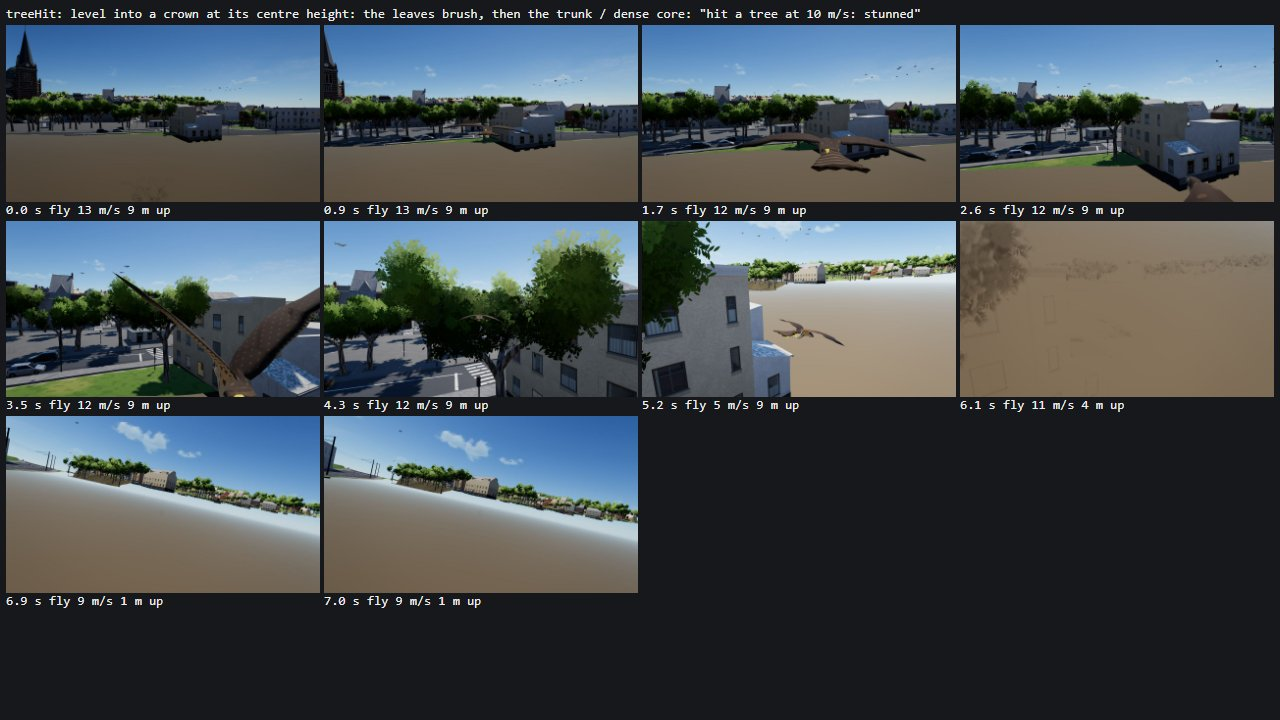
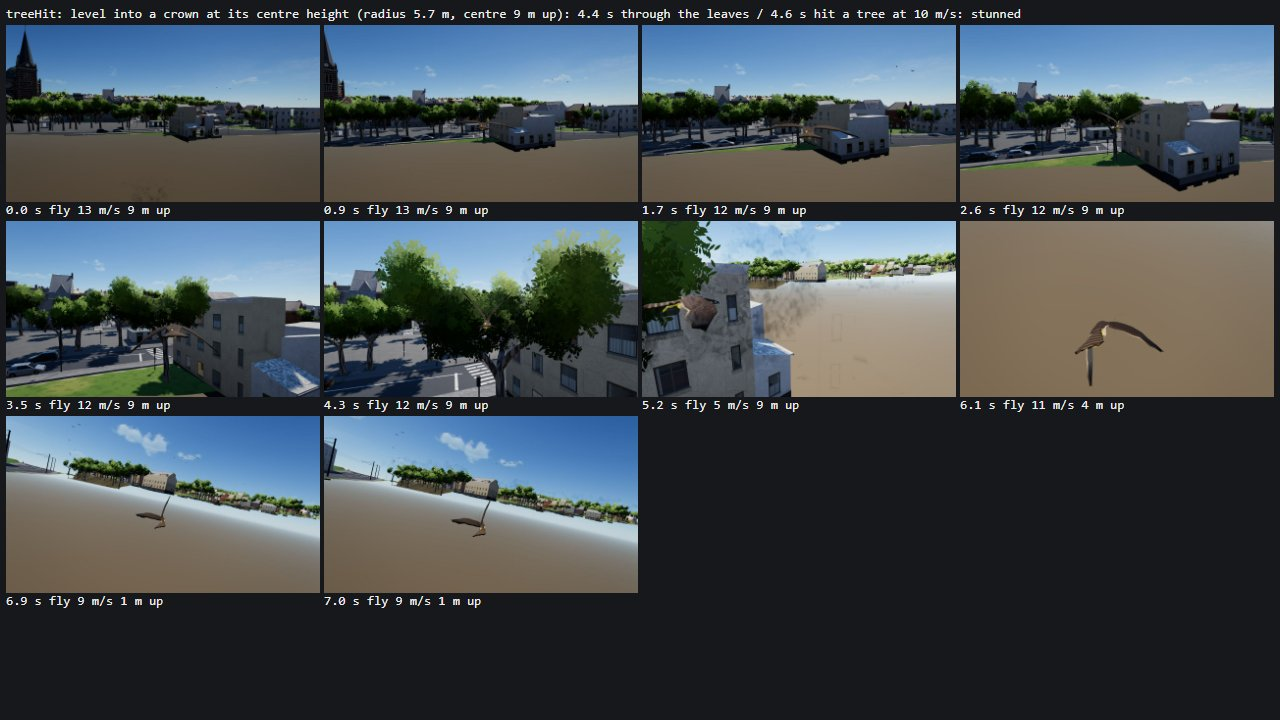
Falcon city round 2: tree crowns as obstacles verified (hit / brush / under / perch sheets), side entry into a ceiling = a wall, camera hard minimum distance, driver: no re-take-off when perched

diff --git a/viewer/falconFlight/flightModel.js b/viewer/falconFlight/flightModel.js
@@ -221,19 +221,26 @@ export class FalconFlight {
     const len = Math.hypot(dx, dy, dz);
     const steps = Math.max(1, Math.ceil(len / 0.4));
     const C = world.column ? world : null;
-    let prevF = C ? C.column(px, pz, py).floor : world.floor(px, pz);
+    let prevF, prevC = Infinity;
+    if (C) { const c = C.column(px, pz, py); prevF = c.floor; prevC = c.ceil; } else prevF = world.floor(px, pz);
     for (let s = 1; s <= steps; s++) {
       const t = s / steps;
       const x = px + dx * t, y = py + dy * t, z = pz + dz * t;
-      let f, ceil = Infinity, hitTree = null;
-      if (C) { const c = C.column(x, z, y); f = c.floor; ceil = c.ceil; hitTree = c.tree; } else f = world.floor(x, z);
-      if (y >= f + R && y <= ceil - R) { prevF = f; continue; }
+      let f, ceil = Infinity, hitTree = null, ceilTree = null;
+      if (C) { const c = C.column(x, z, y); f = c.floor; ceil = c.ceil; hitTree = c.tree; ceilTree = c.ceilTree ?? null; } else f = world.floor(x, z);
+      if (y >= f + R && y <= ceil - R) { prevF = f; prevC = ceil; continue; }
       // contact: which kind?
       const t0 = (s - 1) / steps, x0 = px + dx * t0, z0 = pz + dz * t0, y0 = py + dy * t0;
       let nx, ny, nz, wall = false, under = false;
-      if (y >= f + R) {
-        // a ceiling (an arch, a crown's underside): pushed down under it, normal down
-        nx = 0; ny = -1; nz = 0; under = true;
+      if (y >= f + R && ceil < prevC - 1) {
+        // a ceiling that came down across the path (flying level into the low side of a crown, an arch's spandrel):
+        // the side of a solid, a wall
+        const hl = Math.hypot(dx, dz) || 1;
+        nx = -dx / hl; ny = 0; nz = -dz / hl; wall = true; hitTree = ceilTree;
+        this.pos.x = x0; this.pos.y = y0; this.pos.z = z0;
+      } else if (y >= f + R) {
+        // a ceiling (an arch, a crown's underside) risen into from below: pushed down under it, normal down
+        nx = 0; ny = -1; nz = 0; under = true; hitTree = ceilTree;
         this.pos.x = x; this.pos.z = z; this.pos.y = Math.max(f + R, ceil - R);
       } else
       if (f - prevF > 1.0 && y0 < f + R - 0.05) {

diff --git a/debug/falconCityFlight.js b/debug/falconCityFlight.js
@@ -261,13 +261,13 @@ function scenarios(F) {
         if (!best || score > best.score) best = { r, pts, L, score };
       }
       if (!best) throw new Error("no street");
-      const pts = best.pts, y0 = (x, z) => w.ground(x, z) + 7;
+      const pts = best.pts, y0 = (x, z) => w.ground(x, z) + 8;
       const h0 = Math.atan2(-(pts[1][0] - pts[0][0]), -(pts[1][1] - pts[0][1]));
       fl.start(pts[0][0], pts[0][1], h0, y0(pts[0][0], pts[0][1]), 13, 0);
       let k = 1;
       F.pick = { name: best.r.meta?.name, L: best.L, n: pts.length };
       return { seconds: Math.min(25, best.L / 13), note: `low along ${best.r.meta?.name || "a street"} (7 m up, under the roofs): the chase camera beside the façades`, script: (f) => {
-        while (k < pts.length - 1 && Math.hypot(pts[k][0] - f.pos.x, pts[k][1] - f.pos.z) < 12) k++;
+        while (k < pts.length - 1 && Math.hypot(pts[k][0] - f.pos.x, pts[k][1] - f.pos.z) < 18) k++;
         const [tx, tz] = pts[k];
         const st = steer(f, Math.atan2(-(tx - f.pos.x), -(tz - f.pos.z)), 0, 0.9);
         return { ...st, pitch: clamp((y0(f.pos.x, f.pos.z) - f.pos.y) * 0.15 - f.gamma * 1.5, -1, 1), flap: f.V < 12 ? 1 : 0, fold: 0 };
@@ -309,6 +309,8 @@ export async function run(name, { grabs = 8, seconds = null, cellW = 400, arg } 
   { const g = fl.game; g.messages.length = 0; for (const k in g.score) g.score[k] = 0; g.f.extraMass = 0; fl.bird.drop(); g.trace.length = 0; fl.handover = null; }
   const S = scenarios(F)[name](arg);
   const dur = seconds ?? S.seconds, n = Math.round(dur * 60);
+  // (perched / landed: the script's flap would take off again at once: none then)
+  if (S.script) { const sc = S.script; S.script = (f, t) => (fl.game.mode === "perch" ? { pitch: 0, roll: 0, flap: 0, fold: 0 } : sc(f, t)); }
   fl.input.script = name === "intro" ? null : S.script;
   if (name === "intro") fl._introScript = S.script;
   const long = [];

diff --git a/viewer/falconFlight/cityStream.js b/viewer/falconFlight/cityStream.js
@@ -134,7 +134,7 @@ export class CityFalconWorld {
    *  a bridge) }. outer: the crowns' whole volume is solid (the camera: never inside the leaves). One shared object. */
   column(x, z, y, outer = false) {
     const o = this._col;
-    o.ceil = Infinity; o.brush = 0; o.tree = null; o.open = false;
+    o.ceil = Infinity; o.brush = 0; o.tree = null; o.ceilTree = null; o.open = false;
     const t = this.tileAt(x, z) || this.nearest(x, z);
     let h = t ? t.hm.ground(x, z) : 0;
     const r = this.roof(x, z); if (r > h) h = r;
@@ -146,7 +146,7 @@ export class CityFalconWorld {
       const k = j * p.nx + i, v = p.data[k];
       if (v < -1e8) continue;
       // a bridge's arch: its lowest surface well over the ground here, the bird under it
-      if (p.low) { const u = p.low[k]; if (u > h + 2.5 && y < u) { if (u < o.ceil) o.ceil = u; o.open = true; continue; } }
+      if (p.low) { const u = p.low[k]; if (u > h + 2.5 && y < u) { if (u < o.ceil) { o.ceil = u; o.ceilTree = null; } o.open = true; continue; } }
       if (v > h) h = v;
     }
     if (this.city.decks?.length && !(o.open && y < o.ceil)) { const d = this.city.deckY(x, z); if (d != null && d > h) h = d; }
@@ -168,7 +168,7 @@ export class CityFalconWorld {
         if (s2 >= 1) continue;
         const hv = Rv * cv * Math.sqrt(1 - s2), lo = cy - hv, hi = cy + hv;
         if (y >= lo) { if (hi > h) { h = hi; o.tree = td.idx[k]; o.treeTile = td; } }
-        else if (lo < o.ceil) o.ceil = lo;
+        else if (lo < o.ceil) { o.ceil = lo; o.ceilTree = td.idx[k]; }
       }
     }
     o.floor = h;
